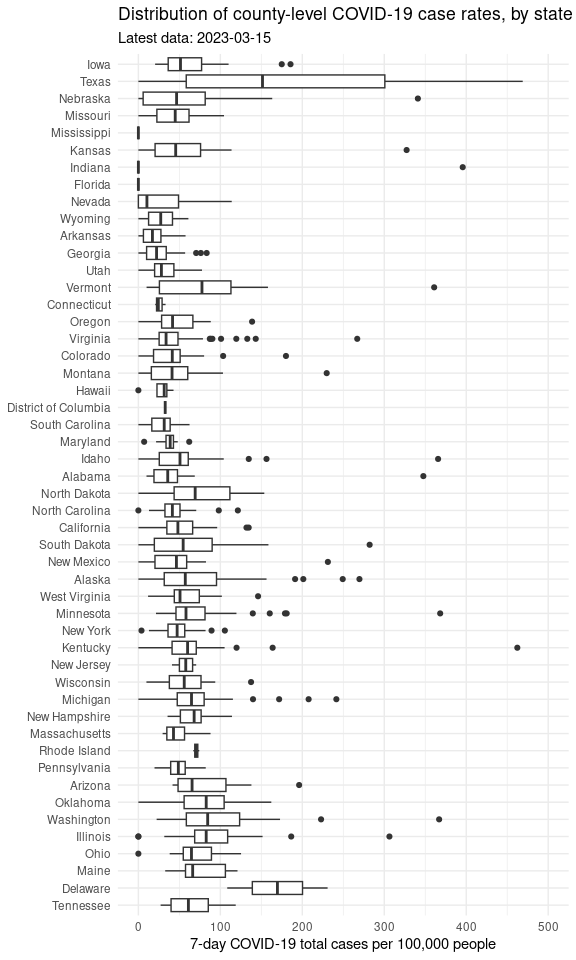
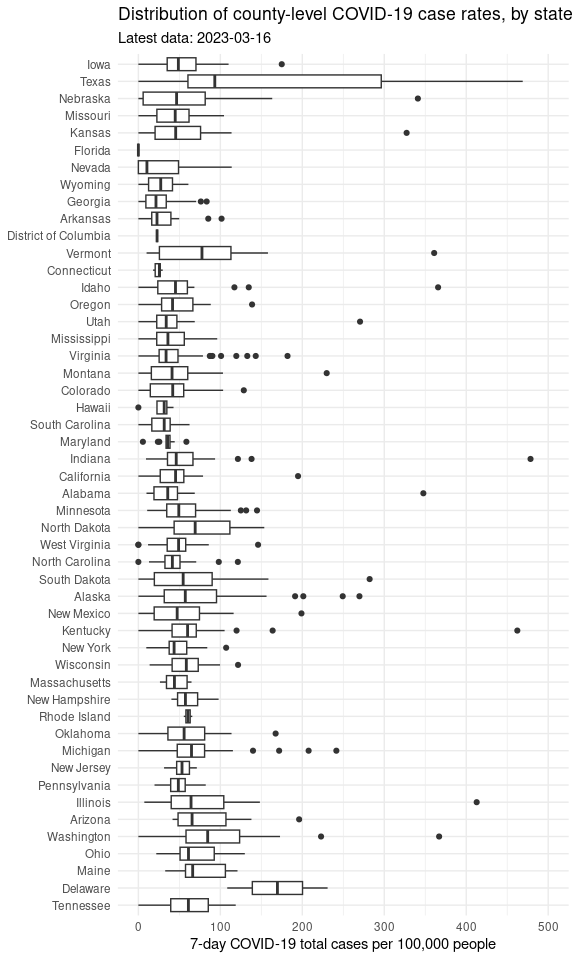
Updated report

diff --git a/README.md b/README.md
@@ -1,7 +1,7 @@
 Minnesota COVID Report
 ================
 
-Report last run: 2023-03-16 22:19:41
+Report last run: 2023-03-17 22:19:13
 
 ## Introduction
 
@@ -111,17 +111,17 @@ rate_data %>%
 | Harlan     | Kentucky       |   26010 |      47885 |
 | Teton      | Wyoming        |   23464 |      45188 |
 | Knox       | Kentucky       |   31145 |      44457 |
-| Logan      | Illinois       |   28618 |      43724 |
-| Adams      | Illinois       |   65435 |      41695 |
+| Logan      | Illinois       |   28618 |      43780 |
+| Adams      | Illinois       |   65435 |      41777 |
 | Grant      | West Virginia  |   11568 |      40966 |
-| San Juan   | New Mexico     |  123958 |      40778 |
+| San Juan   | New Mexico     |  123958 |      40807 |
 | Morton     | North Dakota   |   31364 |      39944 |
 | Mercer     | Kentucky       |   21933 |      39124 |
-| Nassau     | New York       | 1356924 |      38620 |
+| Nassau     | New York       | 1356924 |      38625 |
 | Surry      | North Carolina |   71783 |      38030 |
-| Dorchester | South Carolina |  162809 |      38006 |
+| Dorchester | South Carolina |  162809 |      38005 |
+| Brown      | Wisconsin      |  264542 |      37918 |
 | Stark      | North Dakota   |   31489 |      37905 |
-| Brown      | Wisconsin      |  264542 |      37905 |
 | Carter     | Tennessee      |   56391 |      37882 |
 | Jackson    | Kentucky       |   13329 |      37842 |
 | Sioux      | North Dakota   |    4230 |      37683 |
